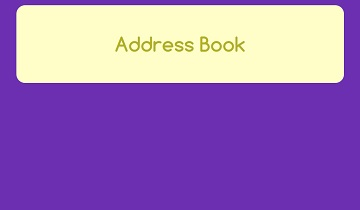
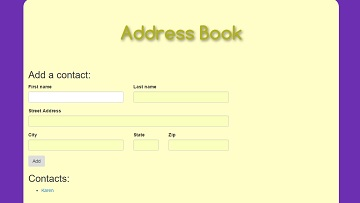
update form to accept address, click function still broken

diff --git a/index.html b/index.html
@@ -13,23 +13,43 @@
     <div class="container">
       <h1>Address Book</h1>
       <div class="row">
-        <div class="col-md-6">
+        <div class="col-md-8">
           <h2>Add a contact: </h2>
           <form id="new-contact">
-            <div class="form-group">
-              <label for="new-first-name">First name</label>
-              <input type="text" class="form-control" id="new-first-name">
+            <div class="row">
+              <div class="form-group col-xs-6">
+                <label for="new-first-name">First name</label>
+                <input type="text" class="form-control" id="new-first-name">
+              </div>
+              <div class="form-group col-xs-6">
+                <label for="new-last-name">Last name</label>
+                <input type="text" class="form-control" id="new-last-name">
+              </div>
             </div>
-            <div class="form-group">
-              <label for="new-last-name">Last name</label>
-              <input type="text" class="form-control" id="new-last-name">
+            <div class="row">
+              <div class="form-group col-xs-12">
+                <label for="new-street">Street Address</label>
+                <input type="text" class="form-control" id="new-street">
+              </div>
+              <div class="form-group col-xs-6">
+                <label for="new-city">City</label>
+                <input type="text" class="form-control" id="new-city">
+              </div>
+              <div class="form-group col-xs-2">
+                <label for="new-state">State</label>
+                <input type="text" class="form-control" id="new-state">
+              </div>
+              <div class="form-group col-xs-4">
+                <label for="new-zip">Zip</label>
+                <input type="text" class="form-control" id="new-zip">
+              </div>
             </div>
             <button type="submit" class="btn">Add</button>
           </form>
           <h2>Contacts:</h2>
-            <ul id="contacts"></ul>
+          <ul id="contacts"></ul>
         </div>
-        <div class="col-md-6">
+        <div class="col-md-4">
           <div id="show-contact">
             <h2></h2>
             <p>First Name: <span class="first-name"></span></p>

diff --git a/js/scripts.js b/js/scripts.js
@@ -4,7 +4,7 @@
 function Contact(first, last) {
   this.firstName = first;
   this.lastName = last;
-  this.address = [];
+  //this.address = [];
 }
 
 Contact.prototype.fullName=function() {
@@ -27,16 +27,32 @@ $("form#new-contact").submit(function(event){
 
   var newContact = new Contact(inputFirstName, inputLastName);
 
+  var inputStreet = $("input#new-street").val();
+  var inputCity = $("input#new-city").val();
+  var inputState = $("input#new-state").val();
+  var inputZip = $("input#new-zip").val();
+
+  var newAddress = new Address(inputStreet, inputCity, inputState, inputZip);
+
   $("ul#contacts").append("<li><span class='contact'>" + newContact.firstName + "</span></li>");
 
+//reset form
   $("input#new-first-name").val("");
   $("input#new-last-name").val("");
-
+  $("input#new-street").val("");
+  $("input#new-city").val("");
+  $("input#new-state").val("");
+  $("input#new-zip").val("");
 });
 
- $(".contact").last().click(function() {
+$("#contacts").last().click(function() {
+  alert("You clicked" + newContact.fristName);
+});
+/*
+$(".contact").last().click(function() {
   $("#show-contact").show();
   $("#show-contact h2").text(newContact.firstName);
   $(".first-name").text(newContact.firstName);
   $(".last-name").text(newContact.lastName);
 });
+*/

diff --git a/css/styles.css b/css/styles.css
@@ -1,14 +1,18 @@
 body {
   background-color: #6C2FB2;
 }
+.container {
+  background-color: #fffec9;
+  border-radius: 25px;
+  padding-bottom:50px;
+}
 h1 {
-  background-color: #FFFEC9;
   color: #B2B123;
   font-size: 4em;
-  line-height: 4em;
+  line-height: 3;
   text-align: center;
   font-family: 'Comfortaa', Arial, sans-serif;;
-  border-radius: 25px;
+  text-shadow: 3px 4px 10px rgba(0, 0, 0, 0.5);
 }
 
 #show-contact {

diff --git a/README.md b/README.md
@@ -1,7 +1,7 @@
 # [Address Book](http://karenfreemansmith.github.io/addressbook)
 ![project screenshot](/img/screenshot.jpg)
 
-__Version 1: April 20, 2016__
+__Version 1: May 2, 2016__
 ## by [Karen Freeman-Smith](http://karenfreemansmith.github.io)
 
 ### Description
@@ -22,7 +22,8 @@ Follow along with the Address Book lessons to add Address objects and support fo
 For questions or comments, please __email [Karen](karenfreemansmith@gmail.com)__
 
 ### Known Issues
-* Still Under Construction
+* Clicking on contacts does not work (not even to bring up alert box, code kinda works if put in a button instead)
+* Addresses are not included in contact object yet
 
 ### Technologies Used
 ###### HTML, CSS, Bootstrap, JavaScript, jQuery
